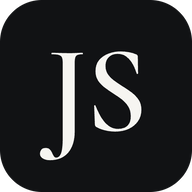
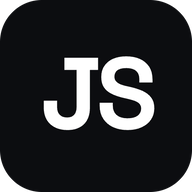
Redesign to match Bellwether and Focs: Space Grotesk, Spline Sans Mono, system type, white/black, red-blue accents

Changed region(s): [[0.1875, 0.25, 0.8125, 0.8438], [0.5312, 0.4375, 0.5625, 0.4688]]

diff --git a/index.html b/index.html
@@ -10,22 +10,26 @@
 <link rel="icon" type="image/png" sizes="192x192" href="icon-192.png">
 <link rel="apple-touch-icon" href="apple-touch-icon.png">
 <link rel="manifest" href="site.webmanifest">
-<meta name="theme-color" content="#111214">
+<meta name="theme-color" content="#0C0D10">
 <link rel="preconnect" href="https://fonts.googleapis.com">
 <link rel="preconnect" href="https://fonts.gstatic.com" crossorigin>
-<link href="https://fonts.googleapis.com/css2?family=Cormorant+Garamond:ital,wght@0,500;0,600;1,500&family=Inter+Tight:wght@400;500;600&family=JetBrains+Mono:wght@400;500&display=swap" rel="stylesheet">
+<link href="https://fonts.googleapis.com/css2?family=Space+Grotesk:wght@400;500;600;700&family=Spline+Sans+Mono:wght@400;500;600&display=swap" rel="stylesheet">
 <style>
 :root{
-  --bg:#F6F5F1; --ink:#111214; --muted:#6B6E75; --rule:#D9D7D0; --card:#EEEDE7; --inv-bg:#111214; --inv-ink:#F6F5F1;
-  --serif:"Cormorant Garamond",Garamond,Georgia,serif;
-  --sans:"Inter Tight",system-ui,-apple-system,sans-serif;
-  --mono:"JetBrains Mono",ui-monospace,Menlo,monospace;
+  --bg:#FFFFFF; --ink:#0C0D10; --muted:#6B6F76; --rule:#E6E6E8; --card:#F5F5F5; --card2:#E8E8E8; --inv-bg:#0C0D10; --inv-ink:#FFFFFF;
+  --dem:#2F5FC4; --gop:#C22F1C; --dem-tint:rgba(47,95,196,.12); --gop-tint:rgba(194,47,28,.10);
+  --serif:"Space Grotesk",system-ui,-apple-system,sans-serif;
+  --sans:-apple-system,BlinkMacSystemFont,"SF Pro Text","Helvetica Neue",system-ui,sans-serif;
+  --thin:-apple-system,BlinkMacSystemFont,"SF Pro Display","Helvetica Neue",system-ui,sans-serif;
+  --mono:"Spline Sans Mono",ui-monospace,Menlo,monospace;
   --w:1120px;
 }
 @media (prefers-color-scheme:dark){:root:not([data-theme="light"]){
-  --bg:#0B0D10; --ink:#F2F4F7; --muted:#8B93A3; --rule:#232830; --card:#14171C; --inv-bg:#F2F4F7; --inv-ink:#0B0D10;
+  --bg:#000000; --ink:#F2F2F3; --muted:#A0A0A6; --rule:#232326; --card:#1A1A1A; --card2:#2D2D2D; --inv-bg:#F2F2F3; --inv-ink:#000000;
+  --dem:#7D9BF0; --gop:#E5715F; --dem-tint:rgba(125,155,240,.18); --gop-tint:rgba(229,113,95,.16);
 }}
-:root[data-theme="dark"]{--bg:#0B0D10; --ink:#F2F4F7; --muted:#8B93A3; --rule:#232830; --card:#14171C; --inv-bg:#F2F4F7; --inv-ink:#0B0D10;}
+:root[data-theme="dark"]{--bg:#000000; --ink:#F2F2F3; --muted:#A0A0A6; --rule:#232326; --card:#1A1A1A; --card2:#2D2D2D; --inv-bg:#F2F2F3; --inv-ink:#000000;
+  --dem:#7D9BF0; --gop:#E5715F; --dem-tint:rgba(125,155,240,.18); --gop-tint:rgba(229,113,95,.16);}
 
 *{box-sizing:border-box}
 html{scroll-behavior:smooth}
@@ -280,6 +284,63 @@ footer{padding:28px 0;font:400 12px var(--mono);color:var(--muted)}
 .panel{border:1px solid var(--rule)}
 #work .sec-head{margin-bottom:8px}
 
+
+/* ===== Bellwether × Focs system ===== */
+body{font-family:var(--sans);font-size:17px;letter-spacing:-.005em}
+.mark{font:700 20px/1 var(--serif);letter-spacing:-.04em}
+nav ul a{font:500 14px var(--sans)}
+#theme{background:var(--card);border:0;width:34px;height:34px}
+.eyebrow{font:500 11px/1.4 var(--mono);letter-spacing:.12em}
+.eyebrow .dot{display:inline-block;width:7px;height:7px;border-radius:50%;background:var(--gop);margin-right:10px;vertical-align:1px}
+h1{font:700 clamp(56px,9vw,112px)/.92 var(--serif);letter-spacing:-.045em;margin:20px 0 26px}
+.lede{font:400 clamp(19px,2vw,23px)/1.5 var(--serif);letter-spacing:-.01em}
+.lede u{text-decoration:none;border-bottom:2.5px solid var(--dem);padding-bottom:1px}
+.lede u.r{border-color:var(--gop)}
+.lede mark{background:var(--dem-tint);color:inherit;border-radius:8px;padding:1px 7px;font-weight:600}
+.tally{border-top:1px solid var(--rule)}
+.tally b{font:200 clamp(38px,4.6vw,58px)/1 var(--thin);letter-spacing:-.03em}
+.tally span{font-size:13px}
+h2{font:600 clamp(34px,4.6vw,52px)/1 var(--serif);letter-spacing:-.035em}
+.sec-head .eyebrow{font-size:11px}
+.index{border-top:1px solid var(--rule)}
+.index b{font:500 21px/1 var(--serif);letter-spacing:-.02em}
+.index span{font-family:var(--mono);font-size:11px}
+.index a:hover b{color:var(--gop)}
+.project{border-top:1px solid var(--rule)}
+.project:first-of-type{border-top:1px solid var(--rule)}
+.project h3{font:600 clamp(32px,3.8vw,44px)/1.02 var(--serif);letter-spacing:-.035em}
+.role{font:500 11px/1.5 var(--mono);letter-spacing:.1em}
+.num{font:500 12px var(--mono)}
+.panel{background:var(--card);border:0;border-radius:16px}
+.panel dt{font:200 clamp(32px,3.4vw,42px)/1 var(--thin);letter-spacing:-.03em}
+.panel h4{font-family:var(--mono)}
+.tags span{font:500 11.5px var(--mono);border:0;background:var(--card);border-radius:8px;padding:5px 9px;color:var(--ink)}
+.links a{font:600 14px var(--sans);border-bottom:2px solid var(--dem)}
+.links a:hover{opacity:1;border-color:var(--gop);color:var(--gop)}
+.solid{border-radius:12px}
+.bw-launch{border-radius:10px}
+.browser{border:0;background:var(--card);border-radius:16px}
+.browser .bar{border-bottom:1px solid var(--rule)}
+.art{border:0;background:var(--card);border-radius:16px}
+.art.soon{background:transparent;border:1.5px dashed var(--card2)}
+.articles h5{font:600 22px/1.15 var(--serif);letter-spacing:-.02em}
+.articles .date{font-family:var(--mono);font-size:11px}
+.gallery .shot{border:0;border-radius:16px;background:var(--card)}
+.gallery .shot:hover{border-color:transparent;box-shadow:0 0 0 2px var(--dem)}
+.gallery.tall .shot{border-radius:20px}
+.gallery figcaption{font:400 11.5px/1.45 var(--mono)}
+.gal-note a{border-bottom:2px solid var(--dem);text-decoration:none}
+.device video,.device-live .screen{border-color:#0C0D10}
+.device figcaption,.device-live figcaption{font-family:var(--mono)}
+.facts{border-top:1px solid var(--rule)}
+.facts span{font-family:var(--mono);font-size:11px}
+.about p{font-size:16.5px}
+.contact{background:var(--inv-bg);color:var(--inv-ink)}
+.contact h2{font:700 clamp(44px,7vw,84px)/1 var(--serif);letter-spacing:-.045em}
+.contact .links a{border-color:var(--inv-ink);color:var(--inv-ink)}
+.contact .links a:hover{border-color:var(--gop);color:var(--gop)}
+footer{font-family:var(--mono)}
+
 /* motion */
 .reveal{opacity:0;transform:translateY(14px);transition:opacity .7s ease,transform .7s ease}
 .reveal.in{opacity:1;transform:none}
@@ -302,11 +363,11 @@ footer{padding:28px 0;font:400 12px var(--mono);color:var(--muted)}
 
 <header class="hero" id="top">
   <div class="wrap">
-    <div class="eyebrow">Mathematical Economics · University of Pennsylvania</div>
+    <div class="eyebrow"><i class="dot"></i>Jonathan Schwartz · Mathematical Economics · University of Pennsylvania</div>
     <div class="hero-grid">
       <div>
-        <h1>Jonathan<br><em>Schwartz</em></h1>
-        <p class="lede">I take a messy pile of information, work out what matters and make a call under uncertainty. Right now that means election data as a <strong>Data Science &amp; Project Fellow at VoteHub</strong>, energy markets at Penn, and apps I build to fix my own problems.</p>
+        <h1>Jonathan<br>Schwartz</h1>
+        <p class="lede">I take a messy pile of information, <u class="b">work out what matters</u> and <u class="r">make a call under uncertainty</u>. Right now that means election data as a <mark>Data Science &amp; Project Fellow at VoteHub</mark>, energy markets at Penn, and apps I build to fix my own problems.</p>
       </div>
       <nav class="index" aria-label="Projects">
         <div class="eyebrow">Index</div>
